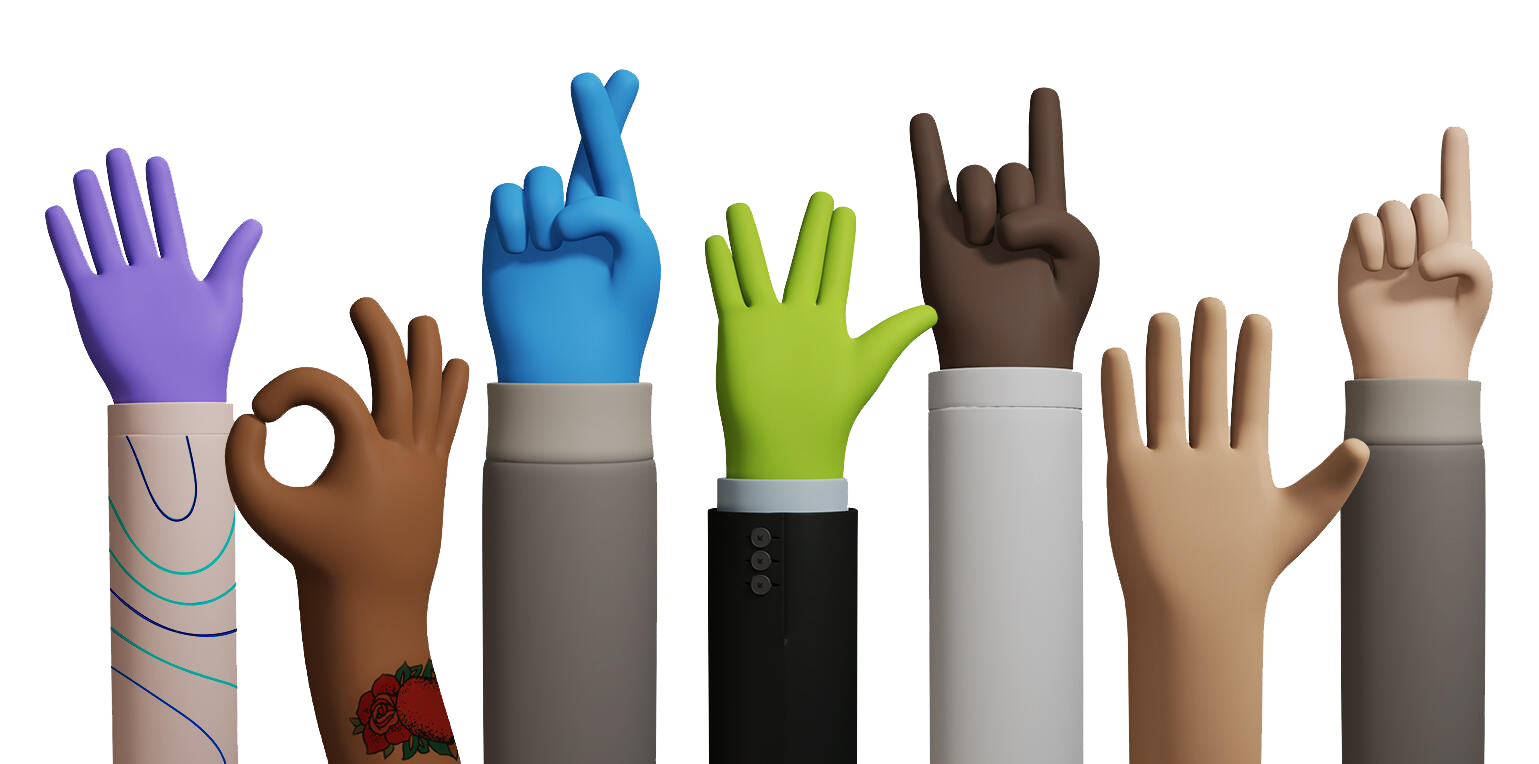
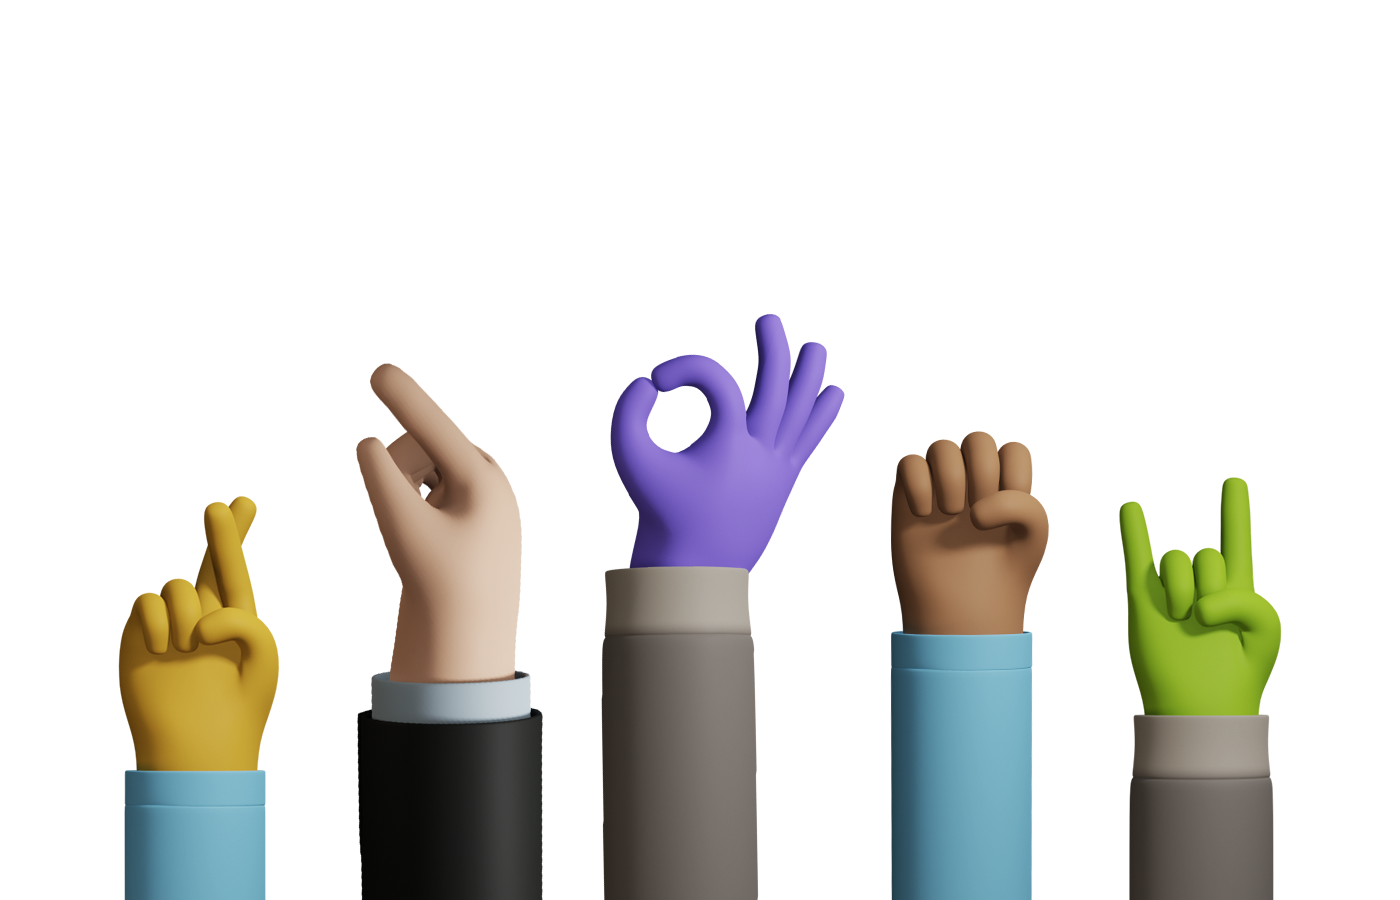
WIP Landing for presentation & documentation product & backlog

diff --git a/front/pages/basecamp.js b/front/pages/basecamp.js
@@ -2,46 +2,86 @@ import Link from "next/link";
 import styles from "../styles/Basecamp.module.css";
 import * as FaIcons from "react-icons/fa";
 
-
 export default function Basecamp() {
-    return (
-        <>
-        <navbar className={styles.mynavbar}>
-            <div className={styles.navwrapper}>
-                <div className={styles.hwrapper}>
-                    <FaIcons.FaComments className={styles.icons}/>
-                    <h1>FAQ</h1>
-                </div>
-                <div className={styles.bwrapper}>
-                <Link href="/">
-                    <button className={styles.buttonwrap}>
-                        <div><FaIcons.FaEye className={styles.icons2}/></div>
-                        <span>Accéder</span>
-                    </button>
-                </Link>
-                </div>
-            </div>
-        </navbar>
-        <section className={styles.firstsection}>
-            <div className={styles.mainwrapper}>
-                <div className={styles.topwrap}>
-                    <span className={styles.bigspan}>L'OUTIL pour vos questions</span>
-                </div>
+  return (
+    <>
+      <nav className={styles.mynavbar}>
+        <div className={styles.navwrapper}>
+          <div className={styles.hwrapper}>
+            <FaIcons.FaComments className={styles.icons} />
+            <h1 className={styles.herotitle}>FAQ</h1>
+          </div>
+          <div className={styles.bwrapper}>
+            <Link href="/">
+              <button className={styles.buttonwrap}>
                 <div>
-                    <p className={styles.mainparagraph}> 
-                        Que tu fasses partie d'une communauté, d'un groupe scolaire, d'une équipe,
-                        d'un groupe d'étudiants, ou simplement une bande de passionnés autour d'un thème varié.
-                        FAQ est un outil open source, qui te permettra de trouver et d'apporter des réponses aux membres
-                        d'un groupe ou d'une communauté.
-                    </p>
+                  <FaIcons.FaEye className={styles.icons2} />
                 </div>
-                <div>
-                    <div>
-                        <span>Version 1.0.0</span><button>Voir le repo</button>
-                    </div>
-                </div>
+                <span>Accéder</span>
+              </button>
+            </Link>
+          </div>
+        </div>
+      </nav>
+
+      <section className={styles.firstsection}>
+        <div className={styles.mainwrapper}>
+          <div className={styles.topwrap}>
+            <span className={styles.bigspan}>L'OUTIL pour échanger</span>
+          </div>
+          <div>
+            <p className={styles.mainparagraph}>
+              Que tu fasses partie d'une communauté, d'un groupe scolaire, d'une
+              équipe, d'un groupe d'étudiants, ou simplement une bande de
+              passionnés autour d'un thème varié. FAQ est un outil open source,
+              qui te permettra de trouver et d'apporter des réponses aux membres
+              d'un groupe ou d'une communauté.
+            </p>
+          </div>
+          <div className={styles.githubwrap}>
+            <div className={styles.versionwrap}>
+              <span className={styles.versionspan}>Version 1.0.0</span>
+              <Link href="https://github.com/WildCodeSchool/lyon-p3-faq">
+                <button className={styles.githubbutton}>
+                  <FaIcons.FaGithub className={styles.icons2} />
+                  <span>Aller sur Github</span>
+                </button>
+              </Link>
             </div>
-        </section>
-        </>
-    )
+          </div>
+        </div>
+      </section>
+
+      <section className={styles.secondsection}>
+        <div className={styles.ssmainwrap}>
+
+          <div className={styles.ssinnerleftwrap}>
+            <div className={styles.wrapcard}>
+              <div className={styles.topcard}></div>
+              <div className={styles.botcard}></div>
+            </div>
+            <div className={styles.versionmaj}>
+              <span>A venir dans la v 1.5.0</span>
+            </div>
+          </div>
+
+          <div className={styles.ssinnerrightwrap}>
+            <p className={styles.ssbigparagraph}>
+              Un outil libre, qui n'attend que d'être hébergé et déployé.🚀
+            </p>
+            <p className={styles.ssmediumparagraph}>
+              La <strong>FAQ open source </strong> permet de mettre à
+              disposition des différentes communautés, un outil facile d'usage
+              qui permet aux membres de cette même <strong>communauté </strong>
+              d'apporter des questions et réponses à leurs interrogations par
+              une réponse unique d'un expert dans le domaine de la question
+              posée. Developpé en <em>mobile</em> first pour que vos
+              <strong> questions/réponses</strong> soient présentes partout avec{" "}
+              <strong>Vous ! </strong>🙏🏼
+            </p>
+          </div>
+        </div>
+      </section>
+    </>
+  );
 }

diff --git a/front/styles/Basecamp.module.css b/front/styles/Basecamp.module.css
@@ -1,7 +1,7 @@
 .mynavbar {
     display: flex;
     height: 80px;
-    background-color:black;
+    background-color: rgb(37, 37, 37);
     align-items: center;
     justify-content: center;
 }
@@ -11,6 +11,10 @@
     display: flex;
     flex-direction: row;
     align-items: center;
+}
+
+.herotitle {
+    font-weight: bold;
 }
 
 .icons {
@@ -51,24 +55,30 @@
 }
 
 .firstsection {
-    width: 100vw;
-    height: 70vh;
+    width: 100%;
+    height: auto;
     background-color: black;
     color : white;
     display: flex;
     justify-content: center;
     align-items: center;
+    background-color: rgb(37, 37, 37);
+    background-image: url("../public/handz.png");
+    background-repeat: no-repeat;
+    background-position: center;
 }
 
 .mainwrapper {
-    width: 60vw;
+    width: 50vw;
+    margin-top: 60px;
+    margin-bottom: 80px;
 }
 
 .topwrap {
     display: flex;
     align-content: center;
     justify-content: center;
-    margin-bottom: 40px;
+    margin-bottom: 80px;
 }
 
 .bigspan {
@@ -78,5 +88,121 @@
 }
 
 .mainparagraph {
+    text-align: justify;
+}
+
+.githubwrap {
+    display: flex;
+    margin-top: 20px;
+    justify-content: right;
+}
+
+.versionwrap {
+display: flex;
+align-items: center;
+}
+
+.versionspan {
+    margin-right: 15px;
+    color : rgb(146, 146, 146)
+}
+
+.githubbutton {
+    display: flex;
+    align-items: center;
+    padding: 10px 15px 10px 15px;
+    font-weight: bold;
+    border-radius: 40px;
+    cursor: pointer;
+}
+
+
+/************************************************************/
+
+.secondsection {
+    height: 80vh;
+    display: flex;
+    justify-content: center;
+    align-items: center;
+}
+
+.ssmainwrap {
+    display: flex;
+    width: 80%;
+    height: 80%;
+}
+
+.ssinnerleftwrap {
+    display: flex;
+    flex-direction: column;
+    height: 100%;
+    width: 50%;
+    justify-content: center;
+    align-items: center;
+    background-color: lavenderblush;
+}
+
+.wrapcard {
+    display: flex;
+    flex-direction: column;
+    justify-content: center;
+    height:90%;
+    background-color: lawngreen;
+}
+
+.topcard {
+    height: 50%;
+    width: 300px;
+    border-radius: 15px;
+    background-color: white;
+    border-radius: 15px;
+    border-style: solid;
+    border-color: lavender;
+}
+
+.botcard {
+    height: 50%;
+    width: 300px;
+    border-radius: 15px;
+    background-color: white;
+    border-radius: 15px;
+    border-style: solid;
+    border-color: lavender;
+}
+
+.versionmaj {
+    height: 10%;
+    width: 100%;
+    display: flex;
+    justify-content: right;
+    align-items: center;
+    padding-right: 20px;
+    background-color: lawngreen;
+}
+
+
+
+
+
+
+.ssinnerrightwrap {
+    display: flex;
+    flex-direction: column;
+    justify-content: center;
+    padding: 20px;
+    padding-left: 30px;
+    height: 100%;
+    width: 50%;
+}
+
+.ssbigparagraph {
+    font-size: 3em;
+    margin-bottom: 20px;
+    font-weight: bold;
+    color: rgb(32, 32, 32);
+}
+
+.ssmediumparagraph {
+    font-weight: 1.1em;
     text-align: justify;
 }
